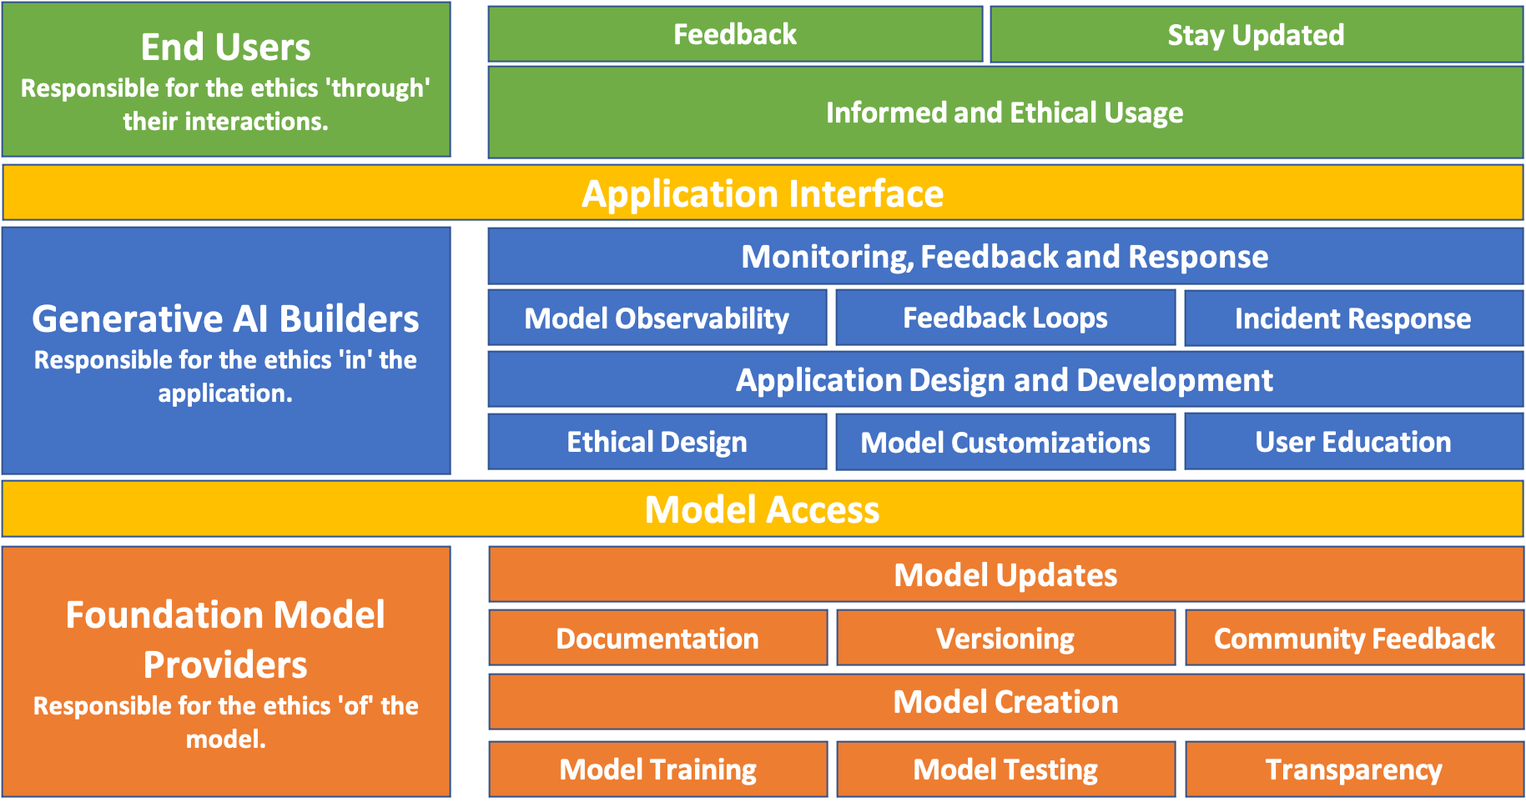
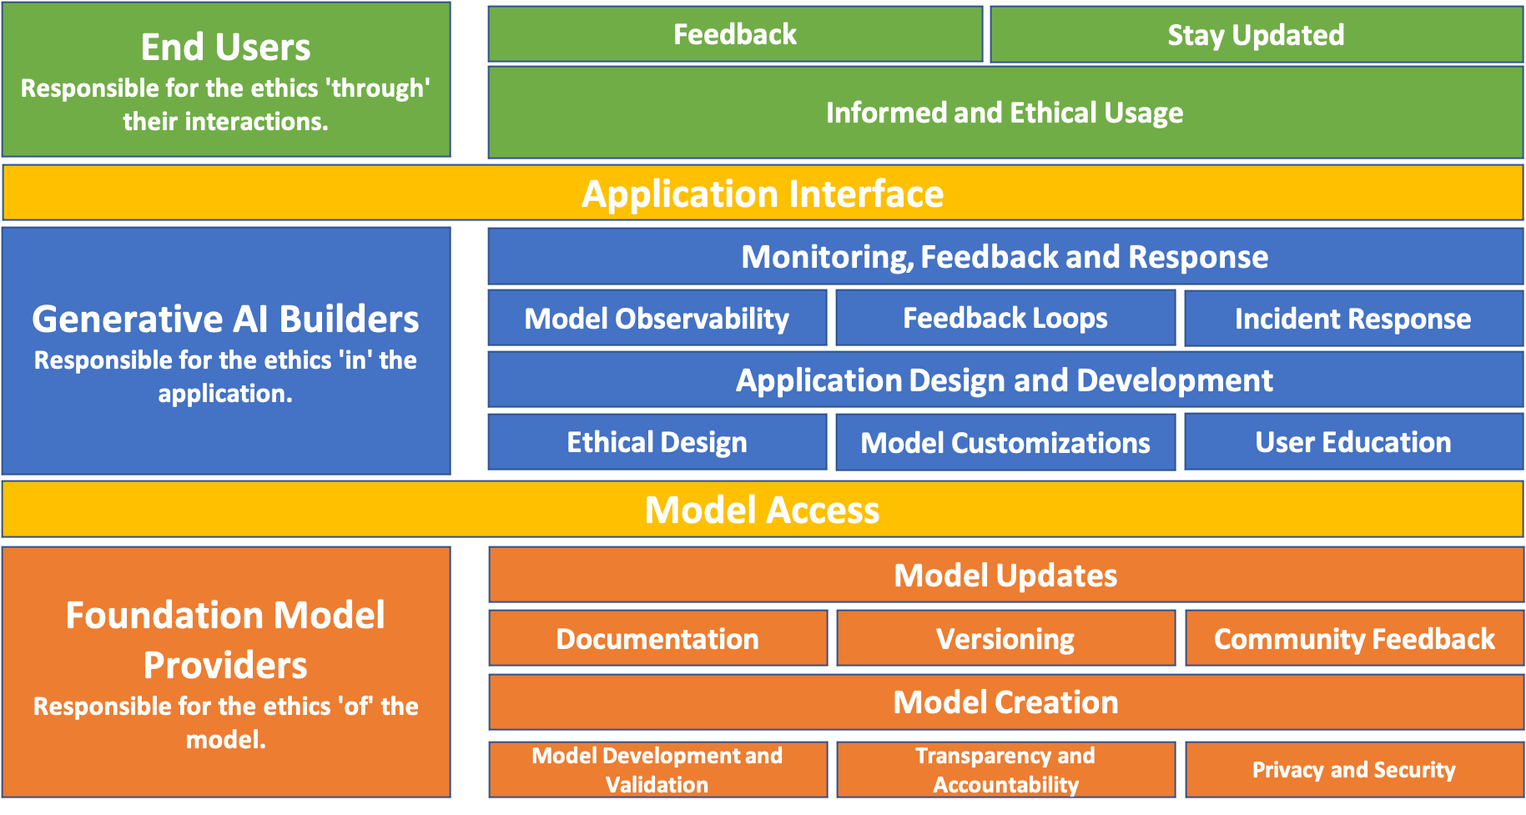
feedback updates

diff --git a/posts/shared_resp_gen_ai/index.md b/posts/shared_resp_gen_ai/index.md
@@ -18,17 +18,15 @@ date: 2023-09-20
 
 In our modern, tech-savvy world, Generative AI models are no longer the stuff of science fiction. They're here, transforming our interactions with machines and producing outputs that often feel uncannily human. Reminiscent of the cloud computing boom years ago, we are all eager to tap into the potential of these models. However, as with every powerful tool, they come with their own set of challenges.
 
-Recall the initial days of cloud computing. The potential was enormous, but so were the concerns about security and responsibility. The situation is strikingly similar with Generative AI today. How do we ensure ethical usage? And when things go south, who's to blame? It's a murky territory, with stakeholders often unsure of their ethical standpoints.
+Recall the initial days of cloud computing. The potential was enormous, but so were the concerns about security and responsibility. The landscape feels similar with Generative AI today. Navigating ethical usage is challenging. And when things go awry, where does the accountability lie? This territory remains ambiguous, with stakeholders often questioning their ethical responsibilities.
 
 But, as history often does, it provides us with solutions. The [AWS Shared Responsibility Model](https://aws.amazon.com/compliance/shared-responsibility-model/), which once brought clarity to the world of cloud computing, can be our guiding light. Drawing inspiration, we present a structured model for Generative AI, aiming to define the roles and responsibilities from the core model providers to the end-users. 
 ![Generative AI Shared Responsibility Model](images/shared_resp_genai.png)
 
 ## The Power and Peril of Generative AI
-
 Generative AI stands as one of the most groundbreaking advancements in the realm of artificial intelligence. It represents the culmination of years of research and development, resulting in models that can generate content which, at times, is indistinguishable from human-created outputs. The applications of these models stretch far and wide, and while they hold immense promise, they also present significant challenges.
 
 ### The Good: Potential of Generative AI
-
 The transformative power of Generative AI is evident across various domains, from enhancing productivity to fueling artistic creativity. Its capabilities offer solutions to long-standing challenges and open doors to new possibilities:
 
 * **Productivity:** One [study](https://www.oneusefulthing.org/p/centaurs-and-cyborgs-on-the-jagged) found that consultants using AI finished 12.2% more tasks on average, completed tasks 25.1% more quickly, and produced 40% higher quality results than those without.
@@ -36,8 +34,7 @@ The transformative power of Generative AI is evident across various domains, fro
 * **Research & Innovation:** [Drug discovery](https://blogs.nvidia.com/blog/2023/06/27/insilico-medicine-uses-generative-ai-to-accelerate-drug-discovery/) and material science have seen AI models propose new compounds or solutions that might have taken humans years to conceptualize.
 ![Reddit user Ugleh Spiral Town art](images/spiral.jpg)
 
-### The Bad: Pitfalls of Generative AI
-
+### The Bad: Risks of Generative AI
 However, the very power that makes Generative AI transformative also poses risks when misused or misunderstood:
 
 * **Deepfakes:** Perhaps one of the most notorious applications, deepfakes can create realistic-looking video footage of real people saying or doing things they never did. This poses risks for misinformation, fraud, and privacy invasion.
@@ -48,7 +45,7 @@ As we've seen, Generative AI holds both incredible promise and potential pitfall
 
 ## Understanding Shared Responsibility in Cloud Computing
 
-Long before the ethical challenges of Generative AI came into the spotlight, the cloud computing industry grappled with its own set of complexities. As organizations migrated their operations to the cloud, questions about security, accountability, and responsibility became paramount. Who was responsible if data was breached? Who ensured the underlying infrastructure was secure? The answers were not always clear-cut.
+Long before the ethical challenges of Generative AI took center stage, the cloud computing industry faced its own maze of complexities. As organizations shifted their operations to the cloud, questions about security, accountability, and responsibility emerged. Who would be held accountable if data was breached? How could one be confident that the underlying infrastructure was secure? The landscape was filled with gray areas and ambiguities.
 
 Enter the AWS Shared Responsibility Model, a framework that brought clarity by distinctly delineating the responsibilities between the cloud provider and the customer.
 ![AWS Shared Responsibility Model](images/aws_shared_resp.jpg)
@@ -56,71 +53,81 @@ Enter the AWS Shared Responsibility Model, a framework that brought clarity by d
 This clear division was a game-changer. It not only provided clarity but also empowered organizations. They could now harness the power of the cloud with a clear understanding of their role in ensuring security.
 
 ### Why It Matters for Generative AI 
-
 Just as cloud computing needed a structured approach to security, Generative AI requires a structured approach to ethics. And while the specifics differ, the underlying principle remains the same: **responsibility is shared**. No single entity holds all the cards; instead, it's a collective effort, where each stakeholder plays a pivotal role.
 
 ## Ethics 'Of' the Model
-Every great structure, be it a skyscraper or a software application, begins with a solid foundation. In the realm of Generative AI, this foundation is laid by the model providers. These are the entities that design, train, and update the core generative models that power countless applications. But as with any foundation, its integrity is paramount, and in the AI world, this integrity is synonymous with ethics.
+In software development, every great application starts with a solid foundation: clean code, robust architecture, and clear documentation. Similarly, in Generative AI, the foundational models set the tone. These core models, designed, trained, and updated by model providers, are the foundation on which AI applications stand. Just as buggy code can crash an app, ethical lapses in these models can lead to unintended AI behaviors.
 
-### Model Creation
-Foundation Model Providers are more than just organizations churning out AI models. Their choices, from the datasets they use to the testing protocols they implement, shape the very fabric of Generative AI. Here are the pillars these organization should be aware of when creating a new model:
+### Model Development and Validation
+Developing an AI model is like writing a new software application. You pick the right tools, write the code (or in this case, feed the data), and then rigorously test to catch bugs.
 
-* **Model Training:** Training a generative AI model isn't just about feeding it vast amounts of data. It's about ensuring that this data is diverse, representative, and free from harmful biases. A misstep here can lead to AI models that produce skewed or discriminatory outputs.
-* **Model Testing:** Once trained, rigorous testing is vital. This isn't just to ensure the model's accuracy but also to check for unintended biases or harmful outputs. Regular, comprehensive testing is the safety net that catches potential issues before they reach end-users.
-* **Transparency:** In the world of AI, black boxes are a no-go. It's crucial for model providers to be transparent about how their models work, the kind of data they were trained on, and their known limitations. This transparency builds trust and sets the stage for ethical usage.
+* **Diverse and Representative Training:** Picking the right dataset is akin to choosing the right libraries for your app. You want data that's diverse, covers various scenarios, and lacks harmful biases to avoid skewed AI outputs.
+* **Rigorous Testing and Validation:** Just as you wouldn't deploy an app without any quality assurance (QA), you shouldn't deploy an AI model without thorough testing. This step catches unintended biases, privacy issues, or security vulnerabilities.
+
+### Transparency and Accountability
+Documentation is a developer's best friend. Similarly, understanding how an AI model works and its capabilities is essential for its users and integrators.
+
+* **Openness About Model Mechanics:** Just as good software comes with comprehensive documentation, AI models need clarity about their inner workings, training data, and limitations.
+* **Commitment to Redress:** No software is bug-free, and neither is AI. When issues pop up, model providers, like good developers, take ownership, fix the problem, and iterate.
+
+### Privacy and Security
+Just as you wouldn't leave your app's database exposed, AI models need to respect user data and be resistant to threats.
+
+* **Data Privacy Protocols:** Handling data during the training phase should be as careful as handling user data in an app — with respect and adherence to privacy standards.
+* **Robust Security Measures:** Cybersecurity is as crucial for AI as it is for web applications. Fortifying models against potential threats keeps the AI's integrity intact.
+
+By sticking to these foundational principles, Foundation Model Providers lay a robust and ethical base, much like the clean, efficient code that underpins a stellar software application
 
 ### Model Updates
-As the world changes and new information emerges, AI models cannot remain static. They must adapt, grow, and evolve to remain relevant and accurate. But updating models isn't just about improving their performance; it's also about ensuring that they continue to meet the highest ethical standards. Here are the key considerations for model providers when updating their models:
-* **Documentation:** As models evolve, their documentation must keep pace. Clear, comprehensive, and up-to-date documentation ensures that AI developers are always informed about the model's capabilities, best practices, and potential pitfalls.
-* **Versioning:** Models, like software applications, undergo multiple iterations. Each update, be it minor tweaks or major overhauls, should be clearly versioned. This allows developers to understand the evolution of the model and choose the version best suited to their needs.
-* **Community Feedback:** The AI community is a goldmine of expertise, experience, and enthusiasm. Model providers should actively seek and encourage feedback from this community. Whether it's pinpointing biases, suggesting improvements, or identifying potential issues, this feedback is crucial in ensuring that the model remains both top-notch and ethically sound.
+Software developers know that code doesn't stay static. Patches, updates, and complete overhauls are par for the course to address bugs, improve performance, or add features. Similarly, not all AI models are static. As the world shifts and new data surfaces, these models need to adapt and refine. This dynamic nature isn't just about staying relevant; it's also about maintaining an ethical alignment. Here's what this update process should look like for AI:
 
-Having established the critical role of Foundation Model Providers in ensuring the ethical backbone of Generative AI, it's clear that a strong foundation is only the beginning. Once this base is set, the next step is to shape and mold it into tangible applications that touch our daily lives.
+* **Documentation:** Just as you'd update the README or API docs with a software patch or new release, AI model documentation has to reflect recent changes. This clarity helps developers navigate any alterations, giving them a comprehensive view of the model's capabilities, nuances, and best practices.
+* **Versioning:** Navigating through software version histories can be enlightening, showing the evolution of a project. In a similar vein, every AI model update, whether it's minor tweaks or significant changes, needs clear versioning. This transparency lets developers trace the model's evolution and select the version that fits their application best.
+* **Community Feedback:** The developer and AI communities teem with insights and expertise. Actively engaging with this community for feedback is invaluable for model providers. Whether it's highlighting overlooked biases, proposing improvements, or pointing out potential challenges, this collective feedback keeps the model both relevant and ethically aligned.
+
+Recognizing the importance of Foundation Model Providers in setting the ethical groundwork for Generative AI, it's evident that a robust foundation is just the start. With this solid base, the next step is crafting applications that integrate seamlessly into our everyday lives.
 
 ## Ethics 'In' the Application
-
-Once the foundation has been laid by the model providers, it's up to the builders—developers, organizations, and innovators—to sculpt applications that harness the potential of these models. Yet, in the rush to create the next groundbreaking application, ethics cannot be an afterthought. In many ways, builders serve as the bridge between the foundational models and the end-users, making their role pivotal in ensuring that the power of Generative AI is wielded responsibly.
+Just as a robust framework needs a well-built application to truly shine, foundational AI models require carefully crafted applications to realize their full potential. For developers, this means diving into the code, optimizing performance, and ensuring a smooth user experience. But, much like considering scalability or security, ethics should be a non-negotiable design criterion from the get-go.
 
 ### Application Design and Development
-
-Generative AI Builders don't just build applications; they shape the user experience. Their choices, from design to deployment, influence how users perceive and interact with AI. This places them in a unique position of stewardship. They must ensure that while their applications are innovative and useful, they're also fair, transparent, and ethical. Here are the pillars to consider:
-
-* **Ethical Design:** Before a single line of code is written, builders must contemplate the ethical implications of their application. Will it be used for good? Could it potentially be misused? Addressing these questions upfront ensures the application is designed with ethics at its core.
-* **Model Customizations:** Generative AI models are often fine-tuned to suit specific applications. During this customization, builders must be vigilant to ensure they're not inadvertently introducing biases or other ethical pitfalls.
-* **User Education:** An informed user is an empowered user. Builders must ensure that users understand the capabilities and limitations of the AI. This could be through user guides, tooltips, or even introductory tutorials.
+Building a Generative AI application is like building any other software product, but with an extra layer of complexity. The decisions you make, from the UI/UX design to the backend logic, have a direct impact on how users will interact with AI. It's not just about building a functional app; it's about building a responsible one. Here's what developers need to focus on:
+* **Ethical Design:** Just as you'd architect your software to handle peak loads or secure user data, you need to plan for ethical use cases. Think about the broader implications. Could the AI be misused? How can you guide users towards responsible interactions? Being proactive in design can prevent a lot of ethical pitfalls later on.
+* **Model Customizations:** Just as you'd tweak a library or an API to fit your application's needs, sometimes you'll need to adjust AI models. But remember, every tweak can have unintended consequences. It's like refactoring code; be careful not to introduce new bugs—or in this case, biases.
+* **User Education:** Think of this as the onboarding process or the tooltips you'd have in your app. Users need to know not just how to use the AI, but also its capabilities and limitations. A well-informed user is less likely to misuse the AI or have unrealistic expectations.
 
 ### Monitoring, Feedback, and Response
+Think of deploying an AI application like releasing a new software version. You've QA-tested it, maybe even beta-tested it, but once it's out in the wild, unexpected bugs or performance issues might crop up. Similarly, even a well-crafted AI application can behave differently in diverse real-world scenarios. That's where monitoring, feedback, and response come into play, helping developers keep the application aligned with ethical standards and user needs. Here's the breakdown:
+* **Model Observability:** Just as you'd use performance monitoring tools to track an app's behavior, you need visibility into how the AI model performs in real-world scenarios. It's not just about flagging outliers; it's about gathering insights into how the model interacts across varied contexts.
+* **Feedback Loops:** You know how invaluable user feedback can be for improving software. Similarly, users can shed light on how the AI is performing, revealing any oversights, suggesting tweaks, or pointing out ethical concerns that might have been missed. Having a robust system to collect and analyze this feedback is key.
+* **Incident Response:** We've all had to roll out hotfixes for unexpected software bugs. In the AI world, if the model throws a curveball—a biased output or a weird recommendation—you need a game plan. This isn't just about a quick fix but understanding what went wrong and adjusting to prevent future hiccups.
 
-The real-world is unpredictable, and AI applications, no matter how thoroughly designed and tested, may encounter unforeseen challenges or produce unintended results. It's in these real-world scenarios that monitoring, feedback, and response mechanisms become invaluable. They ensure that AI applications remain ethical, accountable, and user-centric throughout their lifecycle. Here's what builders need to focus on:
-* **Model Observability:** The behavior of an AI model in a controlled environment can differ from its behavior in the wild. Builders need to continuously monitor the model's outputs, decisions, and interactions in real-world scenarios. This isn't just about catching anomalies but also about understanding the model's behavior in diverse contexts.
-* **Feedback Loops:** The user community can offer a wealth of insights. By establishing robust feedback mechanisms, builders can tap into the collective wisdom and experience of their user base. This feedback can reveal blind spots in the application, suggest improvements, and even highlight ethical dilemmas that may not have been initially apparent.
-* **Incident Response:** In the event of an unexpected or undesirable AI outcome, a swift and effective response is crucial. Builders need to have protocols in place to address these incidents. This involves not just rectifying the immediate issue but also analyzing the root cause, ensuring that similar incidents don't recur in the future.
-
-Now that we've explored the pivotal role of AI builders in crafting ethical applications, it becomes clear that the responsibility doesn't end at deployment. Once these applications are in the hands of users, a new dimension of ethical considerations comes into play.
+It's clear that building an AI application isn't a "deploy and forget" task. The journey continues post-launch, adjusting and refining based on real-world interactions and feedback. And when users get their hands on the application, another layer of ethical responsibility emerges.
 
 ## Ethics 'Through' Interactions
+Just as developers are central to the software ecosystem, end-users are at the core of the Generative AI experience. They're not just passive consumers; their interactions, feedback, and choices help shape the AI's behavior and direction. Let's look at the key touchpoints where users influence the ethical landscape of AI:
 
-Generative AI has ushered in a new era of technological interaction, placing end-users at its heart. Far from being passive recipients, these individuals are instrumental in shaping AI's ethical trajectory. Through their informed choices, constructive feedback, and commitment to staying updated, users play a pivotal role in ensuring that AI remains a force for good. Let's dive into the key areas where users play a pivotal role:
+### Informed and Ethical Usage 
+Think of AI tools as you would any software library or framework. Users need a solid grasp of what these tools offer, similar to understanding the functions of a new API or SDK.
 
-**Informed and Ethical Usage:** End-users should be equipped with a clear understanding of the AI tools at their disposal. This knowledge ensures that users harness the AI's capabilities effectively and responsibly.
+* **Understanding Capabilities:** Knowing what AI can achieve is like understanding the features of a new software release. It helps users tap into the AI's strengths without expecting it to solve unsuitable tasks.
+* **Recognizing Limitations:** Just as you'd be wary of bugs or limitations in a new software patch, it's essential for users to be aware of AI's potential biases or errors.
 
-* **Understanding Capabilities:** It's essential for users to know what AI can and cannot do, ensuring they use the tool effectively without over-relying on it.
-* **Recognizing Limitations:** Being aware of potential biases and errors in AI allows users to critically assess its outputs, using them judiciously.
+### Feedback: 
+Remember the last time you appreciated user feedback for your app? AI models benefit similarly from user insights.
 
-**Feedback:** Constructive feedback is the lifeline of any evolving system, and AI is no exception. Users play an integral role in shaping the AI's development and refining its operations.
+* **Voicing Concerns and Insights:** Just as user-reported bugs can lead to software improvements, feedback from AI users can help refine its performance and behavior.
+* **Community Collaboration:** The way developers collaborate on open-source projects, AI users can share experiences and insights, collectively influencing the AI's direction.
 
-* **Voicing Concerns and Insights:** Active feedback from users can highlight unexpected results or areas of improvement, ensuring the AI remains responsive to real-world needs.
-* **Community Collaboration:** Engaging in AI user communities offers a platform for shared experiences, insights, and collective influence on AI's ethical direction.
+### Staying Updated 
+Similar to keeping your software dependencies updated, it's crucial for users to stay current with AI developments.
 
-**Staying Updated:** With the dynamic nature of AI, staying updated is not just about harnessing the latest features but also about ensuring ethical interactions.
+* **Embracing Updates:** Just as developers work with the latest software versions, users should interact with the most recent and refined AI iterations.
+* **Continuous Learning:** Just as you'd catch up on the latest programming languages or frameworks, users benefit from keeping pace with AI advancements.
 
-* **Embracing Updates:** Engaging with the most recent versions ensures users are interacting with the most refined and ethical version of the AI.
-* **Continuous Learning:** Committing to ongoing learning about AI developments ensures users remain informed, maximizing the benefits of their AI interactions.
-
-Every stakeholder, from the model providers to the everyday user, plays a crucial part in shaping the ethical AI narrative. But what does the future hold for this evolving field?
+From the team developing the backend to the end-user clicking buttons on an interface, everyone has a role in shaping the ethical trajectory of AI. So, where is this journey taking us next in the AI realm?
 
 ## The Future of Ethical AI and Our Collective Journey
-
 As we stand on the cusp of an AI-driven future, it's clear that Generative AI will play a pivotal role in shaping our world. Its potential to revolutionize industries, enhance creativity, and offer solutions to age-old problems is undeniable. Yet, as with all powerful tools, here are some of the challenges we must face together:
 
 * **Dynamic Ethics:** The concept of ethics isn't static. What's deemed ethical today might be viewed differently tomorrow. Adapting to these evolving standards while ensuring consistent ethical AI usage will be a challenge.
@@ -130,12 +137,10 @@ As we stand on the cusp of an AI-driven future, it's clear that Generative AI wi
 However, the challenges are not insurmountable. The shared responsibility model offers a structured approach, ensuring that all stakeholders, from model providers to end-users, play their part in navigating these challenges.
 
 ### Let’s Build Responsibly
-
 Generative AI is not just a technological marvel; it's a testament to human ingenuity. But as we harness its power, we must also shoulder the responsibility that comes with it. The shared responsibility model isn't just a framework; it's a **call to action**. It reminds us that ethics in AI isn't the sole responsibility of a select few but a collective commitment.
 As we march forward into an exciting AI-driven future, let's do so with purpose, responsibility, and a shared vision. A vision where Generative AI not only transforms industries but does so ethically, benefiting humanity as a whole.
 
 For further reading I recommend you check out the Amazon Science blog on [responsible AI](https://www.amazon.science/blog/responsible-ai-in-the-generative-era?sc_channel=el&sc_campaign=genaiwave&sc_geo=mult&sc_country=mult&sc_outcome=acq&sc_content=shared_resp_gen_ai),[Ethan Mollick Substack](https://www.oneusefulthing.org/) on how to leverage AI, and [Amazon's Generative AI Hub](https://aws.amazon.com/generative-ai/?sc_channel=el&sc_campaign=genaiwave&sc_geo=mult&sc_country=mult&sc_outcome=acq&sc_content=shared_resp_gen_ai).
 
 ## About the Author
-
 Banjo is a Senior Developer Advocate at AWS, where he helps builders get excited about using AWS. Banjo is passionate about operationalizing data and has started a podcast, a meetup, and open-source projects around utilizing data. When not building the next big thing, Banjo likes to relax by playing video games, especially JRPGs, and exploring events happening around him.
